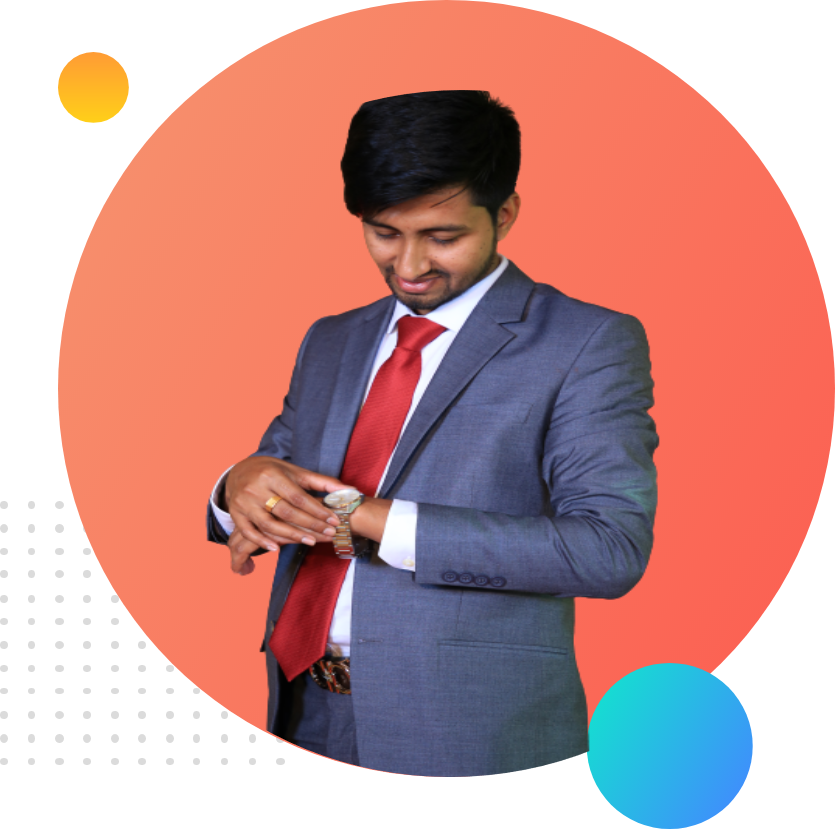
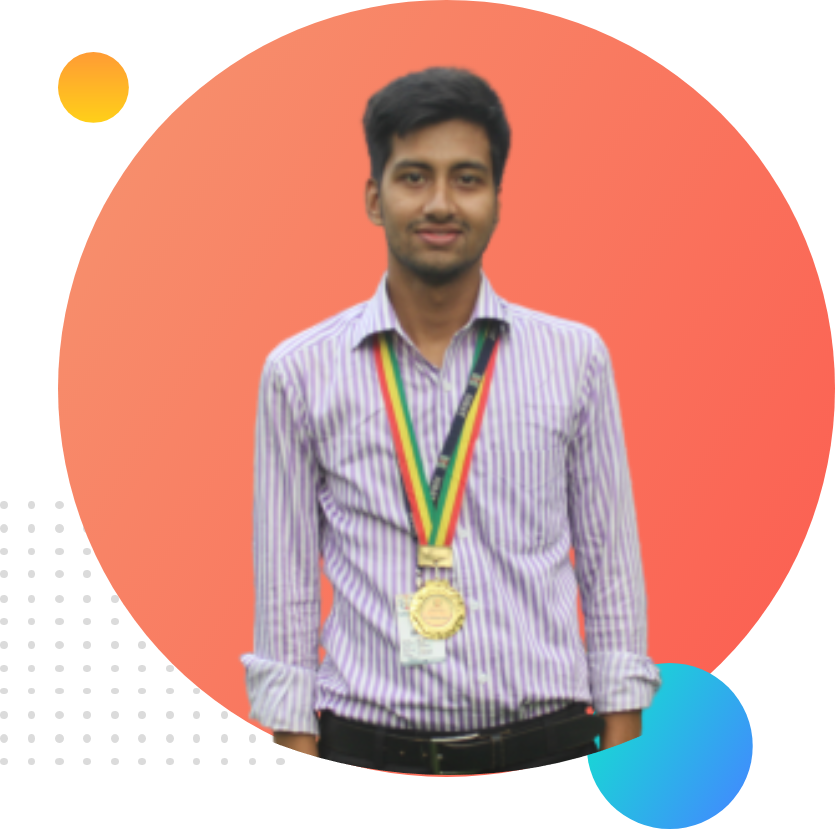
Images Updated To My Images

diff --git a/index.html b/index.html
@@ -31,7 +31,7 @@
     </section>
     <section class="dream-big flexible-container">
         <div class="dream-left half-width">
-            <img src="images/jhankar2.png" alt="Jhanker">
+            <img src="images/mdream.png" alt="Jhanker">
         </div>
         <div class="dream-right half-width">
             <h1>Dream Big</h1>
